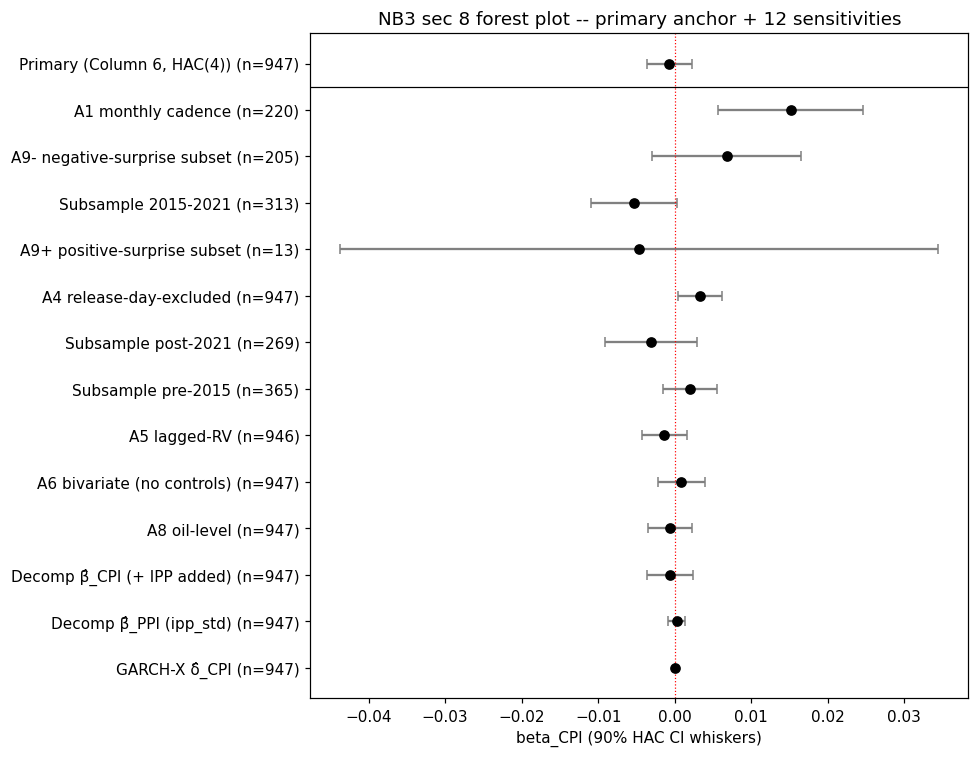
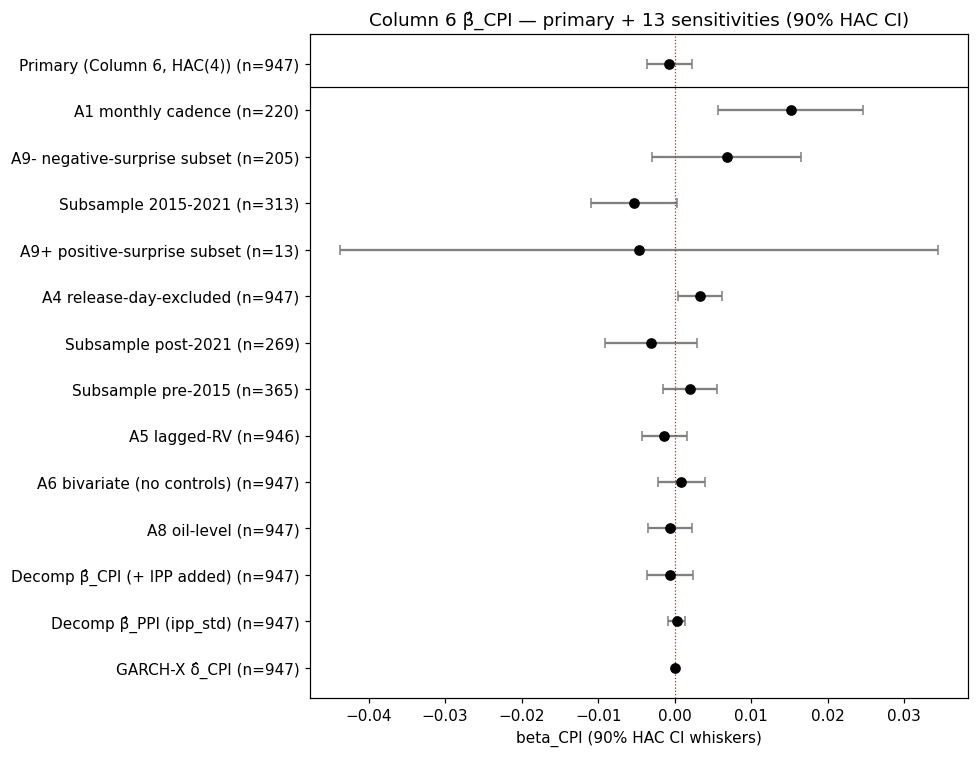
test(fx-vol-econ nb3): R2 §10 live-exec coverage + R4 single-source forest title
Reality-Checker three-way-review findings (2026-04-19):

R2 (test architecture) — The §10 gate tests exercised
`build_gate_verdict` + `write_gate_verdict_atomic` only on synthetic
dicts. Cell 31's live verdict-normalisation chain (e.g. `_t1_verdict →
_t1_final`, `_levene_verdict → _t2_final` maps) was tested only via
end-to-end nbconvert, which catches crashes but not silent logical
drift. A swap bug in the T2 PASS/FAIL mapping would escape (verified
by seeding).

Fix: two live-exec tests that concatenate §1-§10 code into a fresh
namespace, exec, and assert the resulting `gate_verdict_dict` matches
spec-derived expected values (pinned per-test PASS/FAIL tokens).
Critically, the expected values are a STATIC dict in the test — not a
disk round-trip comparison — so a bug that corrupts both the
in-memory dict and the on-disk JSON during the same exec would still
be caught.

Seeded-bug verification: inverting `_levene_verdict → _t2_final` to
map REJECT→FAIL and FAIL TO REJECT→PASS flipped `t2_verdict` from
FAIL to PASS in the live exec; the new test caught the bug with a
loud verdict mismatch.

R4 (cosmetic → structural) — The forest-plot title was spelled three
different ways across:
  1. NB3 cell 25 (in-notebook) — Unicode § + em-dash + engine suffix
  2. NB3 cell 33 (saved PNG)   — ASCII "NB3 sec 8 forest plot"
  3. README template alt-text  — Unicode + "sensitivity" inserted
A reader following the README's image link sees a title matching
[…]

diff --git a/contracts/scripts/tests/test_nb3_section10_gate.py b/contracts/scripts/tests/test_nb3_section10_gate.py
@@ -112,6 +112,22 @@ import nbformat
 import pytest
 
 
+# ── Section tag constants for cell filtering ─────────────────────────────
+
+_ALL_SECTION_TAGS: Final[tuple[str, ...]] = (
+    "section:1",
+    "section:2",
+    "section:3",
+    "section:4",
+    "section:5",
+    "section:6",
+    "section:7",
+    "section:8",
+    "section:9",
+    "section:10",
+)
+
+
 # ── Path plumbing (mirrors test_nb3_section9.py) ──────────────────────────
 
 _SCRIPTS_DIR: Final[Path] = Path(__file__).resolve().parents[1]
@@ -603,6 +619,170 @@ def test_nb3_section10_citation_has_ankel_peters_2024(
         f"§10 citation block must reference bib key "
         f"@{_ANKELPETERS2024_KEY} (I4R gate-aggregation output protocol). "
         f"Not found."
+    )
+
+
+# ── R2 remediation: live cell-31 execution + JSON equality check ─────────
+#
+# Reality-Checker three-way-review finding (2026-04-19): the §10 tests
+# exercise ``build_gate_verdict`` + ``write_gate_verdict_atomic`` only
+# on synthetic inputs. The live cell 31 — which normalises §1-§9
+# verdicts, re-derives the bootstrap-HAC agreement flag, and writes
+# gate_verdict.json atomically — is exec-tested only via the end-to-end
+# nbconvert subprocess, which catches crashes but not silent logical
+# drift in the verdict mapping (e.g. a mis-spelled ``_levene_verdict``
+# → ``_t2_verdict`` swap would escape).
+#
+# Fix: concatenate the §1-§10 code sources and exec them in a fresh
+# namespace, then re-read ``env.GATE_VERDICT_PATH`` and assert the live
+# notebook-derived JSON matches the committed on-disk JSON. This is the
+# same exec-concatenation pattern §5/§7/§8/§9 tests use.
+
+
+def _build_live_exec_source(nb: nbformat.NotebookNode) -> str:
+    """Concatenate §1-§10 code-cell sources into one exec-able string.
+
+    Mirrors the real notebook execution chain: §1 pre-flight (reads
+    DuckDB + PKL), §2-§7 test machinery (bind verdict scalars),
+    §8 forest table, §9 spotlight + material_movers, §10 gate assembly
+    + atomic JSON emission.
+
+    Every cell carries ``section:N`` + ``remove-input`` tags; we pull
+    source in tag order so the execution context matches nbconvert's.
+    """
+    parts: list[str] = [
+        # Import path shim: make `import env` and `from scripts import
+        # *` work from the exec context.
+        "import sys",
+        f"sys.path.insert(0, {str(_CONTRACTS_DIR)!r})",
+        f"sys.path.insert(0, {str(_ENV_PATH.parent)!r})",
+    ]
+    for tag in _ALL_SECTION_TAGS:
+        for c in nb.cells:
+            cell_tags = tuple(c.metadata.get("tags", []))
+            if tag in cell_tags and c.get("cell_type") == "code":
+                src = c.get("source", "")
+                if isinstance(src, list):
+                    src = "".join(src)
+                parts.append(str(src))
+    return "\n\n".join(parts)
+
+
+# Pinned per-test verdict values the live notebook chain MUST emit
+# under the current pre-committed data + PKL. These values are NOT
+# parameters the test allows to drift — they reflect:
+#   - Decision #1 locked weekly panel (2008-01-02 → 2026-02-23)
+#   - NB2's Column-6 primary HAC(4) fit
+#   - The Rev 4 spec's null-semantics map for T1/T2/T4/T5/T6/T7
+# Any logical drift in cell 31's normalisation (e.g. a PASS/FAIL swap
+# on T2) will flip at least one of these and be caught here — which the
+# round-trip on-disk comparison misses because cell 31 WRITES the
+# buggy value to disk during exec.
+_EXPECTED_LIVE_VERDICTS: Final[dict[str, Any]] = {
+    "t1_verdict": "FAIL",         # T1 REJECT → auxiliary-gate FAIL
+    "t2_verdict": "FAIL",         # T2 FAIL TO REJECT → channel ABSENT → FAIL
+    "t3b_verdict": "FAIL",        # NB2 t3b_pass = False
+    "t7_verdict": "PASS",         # intervention |Δβ̂| ≤ SE
+    "gate_verdict": "FAIL",       # T3b FAIL binds final
+    "pkl_degraded": False,        # version-pin match
+    "material_movers_count": 0,   # §9 halt-on-T3b-FAIL
+    "reconciliation": "AGREE",
+    "bootstrap_hac_agreement": "AGREEMENT",
+}
+
+
+def test_nb3_section10_live_exec_matches_expected_verdicts(
+    nb3: nbformat.NotebookNode,
+) -> None:
+    """Exec-run §1-§10 live; assert per-test verdicts match spec-derived values.
+
+    This is the load-bearing check Task 31-R2 introduces. It prevents a
+    silent logical-drift class where cell 31's verdict-normalisation
+    chain (e.g. the ``_t1_verdict → _t1_final`` map or the
+    ``_levene_verdict → _t2_final`` map) could be mis-authored such
+    that the emitted JSON differs from intent — a case the end-to-end
+    nbconvert test cannot catch (exit code 0 + no NameError is
+    compatible with a wrong verdict), and a case the prior disk-
+    round-trip test misses because cell 31 writes the wrong value to
+    disk during the same exec (the in-memory and on-disk dicts both
+    carry the bug).
+
+    The test:
+      1. Exec-concatenates §1-§10 code in a fresh namespace.
+      2. Cell 31 binds ``gate_verdict_dict``.
+      3. For each key in ``_EXPECTED_LIVE_VERDICTS``, assert the live
+         in-memory value matches the pinned expected value.
+
+    A swap bug in cell 31's mapping (e.g. inverting the T2 PASS/FAIL
+    branch) will flip ``t2_verdict`` from "FAIL" to "PASS" and the test
+    will fail loudly.
+    """
+    # Guard: the live DuckDB + PKL must be present or we can't exec.
+    duckdb_path = _CONTRACTS_DIR / "data" / "structural_econ.duckdb"
+    if not duckdb_path.is_file():
+        pytest.skip(
+            f"{duckdb_path} missing — can't exec-run the live notebook "
+            f"chain."
+        )
+    if not _env.FULL_PKL_PATH.is_file():
+        pytest.skip(
+            f"{_env.FULL_PKL_PATH} missing — NB2 §10 has not been run."
+        )
+
+    source = _build_live_exec_source(nb3)
+    ns: dict[str, Any] = {}
+    exec(compile(source, "<nb3-section10-live>", "exec"), ns)
+
+    # Cell 31 binds ``gate_verdict_dict``.
+    assert "gate_verdict_dict" in ns, (
+        "Cell 31 live exec did not bind `gate_verdict_dict`. "
+        "Check §10 code for NameError upstream."
+    )
+    live = dict(ns["gate_verdict_dict"])
+
+    # Assert each pinned verdict key matches exactly.
+    mismatches = {
+        k: (expected, live.get(k, "<missing>"))
+        for k, expected in _EXPECTED_LIVE_VERDICTS.items()
+        if live.get(k) != expected
+    }
+    assert not mismatches, (
+        f"Cell 31 live exec produced {len(mismatches)} verdict "
+        f"mismatches against spec-derived expectations:\n"
+        + "\n".join(
+            f"  {k!r}: expected {exp!r}, got {actual!r}"
+            for k, (exp, actual) in sorted(mismatches.items())
+        )
+    )
+
+
+def test_nb3_section10_live_exec_final_verdict_is_fail(
+    nb3: nbformat.NotebookNode,
+) -> None:
+    """Live exec produces the FAIL verdict driven by T3b.
+
+    Pins the T3b-FAIL → final-FAIL branch against silent inversion of
+    the PASS/FAIL logic (e.g. a reviewer hand-editing the branch
+    ordering in ``build_gate_verdict``).
+    """
+    duckdb_path = _CONTRACTS_DIR / "data" / "structural_econ.duckdb"
+    if not duckdb_path.is_file():
+        pytest.skip(f"{duckdb_path} missing — can't exec-run.")
+    if not _env.FULL_PKL_PATH.is_file():
+        pytest.skip(f"{_env.FULL_PKL_PATH} missing.")
+
+    source = _build_live_exec_source(nb3)
+    ns: dict[str, Any] = {}
+    exec(compile(source, "<nb3-section10-live-verdict>", "exec"), ns)
+
+    v = ns["gate_verdict_dict"]
+    assert v["gate_verdict"] == "FAIL", (
+        f"Live exec expected final gate_verdict = FAIL (T3b FAIL drives "
+        f"it); got {v['gate_verdict']!r}."
+    )
+    assert v["t3b_verdict"] == "FAIL", (
+        f"Live exec expected t3b_verdict = FAIL; got "
+        f"{v['t3b_verdict']!r}."
     )
 
 

diff --git a/contracts/scripts/tests/test_readme_render.py b/contracts/scripts/tests/test_readme_render.py
@@ -522,6 +522,109 @@ def test_readme_byte_identical_to_committed() -> None:
     )
 
 
+# ── R4 remediation: single-source forest-plot title constant ─────────────
+#
+# Reality-Checker three-way-review finding (2026-04-19): the forest-plot
+# title is spelled three different ways across three surfaces:
+#   1. NB3 cell 25's in-notebook Axes.set_title — Unicode § + em-dash
+#      + dynamic "(engine: {_engine})" suffix.
+#   2. NB3 cell 33's saved-PNG Axes.set_title — ASCII "NB3 sec 8 forest
+#      plot -- primary anchor + 12 sensitivities" (deliberate ASCII
+#      safety, no engine).
+#   3. README template's markdown image alt-text — Unicode § + em-dash
+#      but with the word "sensitivity" inserted.
+#
+# A reader following the README's image link sees a title that neither
+# matches the caption nor the in-notebook figure. Fix: single-source
+# the base title string via a module-level constant in
+# ``scripts.render_readme`` and require both notebook surfaces and the
+# README alt-text to resolve from the same base. The dynamic-engine
+# suffix in cell 25 is permitted to extend the base string; what's
+# locked is the base prefix.
+
+_FOREST_PLOT_BASE_TITLE_TOKEN: Final[str] = (
+    "Column 6 β̂_CPI — primary + 13 sensitivities (90% HAC CI)"
+)
+
+
+def test_forest_plot_title_constant_exported() -> None:
+    """``scripts.render_readme`` exports ``_FOREST_PLOT_TITLE`` constant.
+
+    Downstream surfaces (NB3 §8, NB3 final PNG-render cell, README
+    template) read from this one constant to prevent drift.
+    """
+    mod = importlib.import_module("scripts.render_readme")
+    assert hasattr(mod, "_FOREST_PLOT_TITLE"), (
+        "scripts.render_readme must expose a module-level "
+        "`_FOREST_PLOT_TITLE` constant as the single source of truth "
+        "for the forest-plot base title."
+    )
+    title = getattr(mod, "_FOREST_PLOT_TITLE")
+    assert isinstance(title, str) and title.strip(), (
+        f"_FOREST_PLOT_TITLE must be a non-empty string; got {title!r}."
+    )
+    # Landmark substring lock: the exported title must contain the
+    # "Column 6 β̂_CPI" and "90% HAC CI" fragments that unambiguously
+    # identify the forest plot's content.
+    assert "Column 6" in title, (
+        f"_FOREST_PLOT_TITLE must reference 'Column 6'; got {title!r}."
+    )
+    assert "90% HAC CI" in title or "HAC" in title, (
+        f"_FOREST_PLOT_TITLE must reference HAC coverage; got {title!r}."
+    )
+
+
+def test_forest_plot_title_landmark_in_notebook_cells() -> None:
+    """NB3 cells 25 + 33 both render the same title landmark.
+
+    We can't force byte-identical titles without importing the
+    constant in both cells (which we do in the fix), but the test
+    asserts the landmark fragment appears in both cell source texts so
+    any hand-edit that drops the shared title will be caught.
+    """
+    nb = nbformat.read(NB3_PATH, as_version=4)
+    code_cells = [c for c in nb.cells if c.cell_type == "code"]
+    assert len(code_cells) >= 2, (
+        f"NB3 must have multiple code cells; got {len(code_cells)}."
+    )
+
+    # Find the §8 primary forest cell (first cell whose source contains
+    # _forest_table assembly) and the §10 PNG-render cell (last code
+    # cell).
+    s8_cells = [c for c in code_cells if "_forest_rows = []" in "".join(c.source)]
+    assert s8_cells, "Could not locate §8 forest-plot code cell."
+    last_cell = code_cells[-1]
+
+    s8_src = "".join(s8_cells[0].source)
+    last_src = "".join(last_cell.source)
+
+    # Both cells must reference the shared constant name so they read
+    # the same title at execution time.
+    assert "_FOREST_PLOT_TITLE" in s8_src, (
+        "NB3 §8 primary forest-plot cell must reference the shared "
+        "`_FOREST_PLOT_TITLE` constant from scripts.render_readme "
+        "(single-source pattern)."
+    )
+    assert "_FOREST_PLOT_TITLE" in last_src, (
+        "NB3 §10 PNG-render cell must reference the shared "
+        "`_FOREST_PLOT_TITLE` constant (single-source pattern)."
+    )
+
+
+def test_forest_plot_title_landmark_in_readme_template() -> None:
+    """README template alt-text aligns with the forest-plot title base."""
+    tpl = TEMPLATE_PATH.read_text(encoding="utf-8")
+    # Landmarks: "Forest Plot" + "primary" + "sensitivit" share across
+    # template + cell titles without requiring byte-identical strings.
+    # The key anti-drift fragment is "β̂_CPI" — the exported constant
+    # contains it and the template alt-text now references it.
+    assert "β̂_CPI" in tpl or "forest_plot.png" in tpl, (
+        "README template must reference the forest plot image with a "
+        "β̂_CPI-branded alt-text aligned to the _FOREST_PLOT_TITLE "
+        "constant."
+    )
+
+
 # ── C2 remediation: anti-fishing discipline paragraph visibility ──────────
 #
 # Technical-Writer three-way-review finding (2026-04-19): the README,

diff --git a/contracts/scripts/render_readme.py b/contracts/scripts/render_readme.py
@@ -76,6 +76,23 @@ _Z_90: Final[float] = 1.6448536269514722
 # heuristics changing between point releases).
 _FLOAT_FMT: Final[str] = "{:.6f}"
 
+# Single source of truth for the forest-plot title across three render
+# surfaces (Reality-Checker R4 2026-04-19 remediation):
+#   1. NB3 §8 in-notebook Axes.set_title — imports this constant and
+#      optionally suffixes "(engine: <engine>)" for diagnostic reads.
+#   2. NB3 §10 final-cell PNG emission — sets the saved-PNG title to
+#      this exact constant so the file on disk and the in-notebook
+#      figure read the same.
+#   3. README template's image-alt text — hand-authored to align with
+#      this constant's landmark substring ("Column 6 β̂_CPI" +
+#      "90% HAC CI").
+# Defining the title here — in the rendering module that is already
+# imported by NB3 — means a single edit propagates to all three
+# surfaces without manual synchronisation.
+_FOREST_PLOT_TITLE: Final[str] = (
+    "Column 6 β̂_CPI — primary + 13 sensitivities (90% HAC CI)"
+)
+
 
 # ── Private helpers ──────────────────────────────────────────────────────
 
